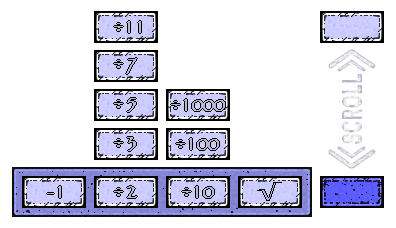
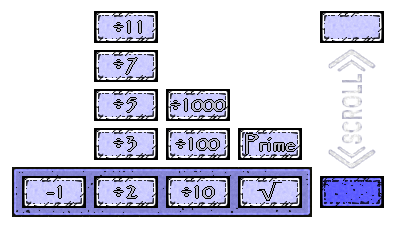
Added prime skill

Changed region(s): [[0.5758, 0.5526, 0.7879, 0.7061]]

diff --git a/js/script.js b/js/script.js
@@ -5,8 +5,8 @@ let CANVAS_HEIGHT = 800;
 let FONT = "Papyrus";
 let KEY_SKILL_1, KEY_SKILL_2, KEY_SKILL_3, KEY_SKILL_4;
 let LOADING_STATE = "LOADING_STATE", PLAY_STATE = "PLAY_STATE", LOST_STATE = "LOST_STATE", MENU_STATE = "MENU_STATE", OPTIONS_STATE = "OPTIONS_STATE", LORE_STATE = "LORE_STATE", HOWTOPLAY_STATE = "HOWTOPLAY_STATE";
-let DMG_RULE_FIXE = "FIXE", DMG_RULE_DIVIDE = "DIVIDE", DMG_RULE_SQUARE = "SQUARE";
-let SCORE_RULE_NONE = "NONE", SCORE_RULE_HP_LOSS = "HP_LOSS", SCORE_RULE_SQUARE = "SQUARE";
+let DMG_RULE_FIXE = "FIXE", DMG_RULE_DIVIDE = "DIVIDE", DMG_RULE_SQUARE = "SQUARE", DMG_RULE_PRIME = "PRIME";
+let SCORE_RULE_NONE = "NONE", SCORE_RULE_HP_LOSS = "HP_LOSS", SCORE_RULE_SQUARE = "SQUARE", SCORE_RULE_PRIME = "PRIME";
 
 // Common content
 let images = {};
@@ -71,6 +71,9 @@ function YouCouldHaveStat(life, rule, divideValue) {
     this.toClearString = function () {
         if (this.rule == DMG_RULE_SQUARE) {
             return `- Done the square root of ${this.life}`;
+        }
+        else if (this.rule == DMG_RULE_PRIME) {
+            return `- Primed ${this.life}`;
         }
         else if (this.rule == DMG_RULE_DIVIDE) {
             return `- Divided ${this.life} by ${this.divideValue}`;
@@ -237,7 +240,8 @@ function Skills() {
     ],
     this.skillsPos3 = 0,
     this.skills4 =  [
-        { code: "racineCarree", image: images.racineCarree, dmg: 0, dmgRule: DMG_RULE_SQUARE, score: 0, scoreRule: SCORE_RULE_SQUARE }
+        { code: "racineCarree", image: images.racineCarree, dmg: 0, dmgRule: DMG_RULE_SQUARE, score: 0, scoreRule: SCORE_RULE_SQUARE },
+        { code: "prime", image: images.prime, dmg: 0, dmgRule: DMG_RULE_PRIME, score: 0, scoreRule: SCORE_RULE_PRIME }
     ],
     this.skillsPos4 = 0,
     this.update = function () {
@@ -410,6 +414,7 @@ function Attacker(width, height, image, image_reversed, x, y, xSpeed, ySpeed, fl
     this.decreaseLife = function (skill) {
         let oldLife = this.life;
         let newLife = this.life;
+        let erreurCalcul = false;
 
         // Do damages
         if (skill.dmgRule == DMG_RULE_FIXE) {
@@ -421,8 +426,16 @@ function Attacker(width, height, image, image_reversed, x, y, xSpeed, ySpeed, fl
         else if (skill.dmgRule == DMG_RULE_SQUARE) {
             newLife = Math.sqrt(oldLife);
         }
+        else if (skill.dmgRule == DMG_RULE_PRIME) {
+            if (isPrime(oldLife)) {
+                newLife = 0;
+            }
+            else {
+                erreurCalcul = true;
+            }
+        }
 
-        if (newLife % 1 !== 0) {
+        if (newLife % 1 !== 0 || erreurCalcul) {
             this.ERROR_IN_LIFE = true;
             this.dieded();
         }
@@ -446,6 +459,9 @@ function Attacker(width, height, image, image_reversed, x, y, xSpeed, ySpeed, fl
             }
             else if (skill.scoreRule == SCORE_RULE_SQUARE) {
                 currentScore += Math.round(Math.log2(oldLife - newLife) * newLife);
+            }
+            else if (skill.scoreRule == SCORE_RULE_PRIME) {
+                currentScore += Math.round(Math.log2(oldLife - newLife) * Math.max(Math.sqrt(oldLife)*1.5,2));
             }
 
             let damageDealt = oldLife - newLife;
@@ -1049,7 +1065,8 @@ function lancerChargement() {
             diviseParDix : "./img/diviseParDix.png",
             diviseParCent : "./img/diviseParCent.png",
             diviseParMille : "./img/diviseParMille.png",
-            racineCarree : "./img/racineCarree.png",
+            racineCarree: "./img/racineCarree.png",
+            prime: "./img/prime.png",
             fleche_gauche : "./img/fleche_gauche.png",
             fleche_gauche_clic : "./img/fleche_gauche_clic.png",
             fleche_gauche_focus : "./img/fleche_gauche_focus.png",
@@ -1409,6 +1426,9 @@ function lancerJouer() {
                 if (!LastGameSummary.youCouldHaveList.some(e => e.tmpLife === tmpLife)) {
                     if (Math.sqrt(tmpLife) % 1 === 0) {
                         LastGameSummary.youCouldHaveList.push(new YouCouldHaveStat(tmpLife, DMG_RULE_SQUARE, null));
+                    }
+                    else if (isPrime(tmpLife)) {
+                        LastGameSummary.youCouldHaveList.push(new YouCouldHaveStat(tmpLife, DMG_RULE_PRIME, null));
                     }
                     else if ((tmpLife / 11) % 1 === 0) {
                         LastGameSummary.youCouldHaveList.push(new YouCouldHaveStat(tmpLife, DMG_RULE_DIVIDE, 11));
@@ -1793,6 +1813,16 @@ function TextWidth(txt) {
 
 function isEmpty(obj) {
     return Object.keys(obj).length === 0;
+}
+
+function isPrime(num) {
+    if (num <= 1) return false;
+    if (num % 2 == 0 && num > 2) return false;
+    const s = Math.sqrt(num);
+    for (let i = 3; i <= s; i += 2) {
+        if (num % i === 0) return false;
+    }
+    return true;
 }
 
 function PrintWrappingText(text, fontSize, x, y, fitWidth, center) {
